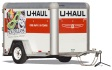
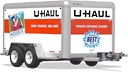
change pics

diff --git a/style/main.css b/style/main.css
@@ -314,28 +314,28 @@ hr {
     font-size: 55px; }
   .tile.tile-2 .tile-inner {
 	background: url('../tile-sets/UHAUL/2.png');
-	background-size: inherit;
+	background-size: 100% 100%;
 	background-repeat: no-repeat;
 	background-position: center;
 	background-color: white;
 	color: rgba(0,0,0,0);}
   .tile.tile-4 .tile-inner {
     background: url('../tile-sets/UHAUL/4.jpg');
-	background-size: inherit;
+	background-size: 100% 100%;
 	background-repeat: no-repeat;
 	background-position: center;
 	background-color: white;
 	color: rgba(0,0,0,0);}
   .tile.tile-8 .tile-inner {
 	background: url('../tile-sets/UHAUL/8.jpg');
-	background-size: inherit;
+	background-size: 100% 100%;
 	background-repeat: no-repeat;
 	background-position: center;
 	background-color: white;
 	color: rgba(0,0,0,0);}
   .tile.tile-16 .tile-inner {
 	background: url('../tile-sets/UHAUL/16.jpg');
-	background-size: inherit;
+	background-size: 100% 100%;
 	background-repeat: no-repeat;
 	background-position: center;
 	background-color: white;
@@ -349,41 +349,41 @@ hr {
 	color: rgba(0,0,0,0);}
   .tile.tile-64 .tile-inner {
 	background: url('../tile-sets/UHAUL/64.jpg');
-	background-size: inherit;
+	background-size: 100% 100%;
 	background-repeat: no-repeat;
 	background-position: center;
 	background-color: white;
 	color: rgba(0,0,0,0);}	
   .tile.tile-128 .tile-inner {
     background: url('../tile-sets/UHAUL/128.jpg');
-	background-size: inherit;
+	background-size: 100% 100%;
 	background-repeat: no-repeat;
 	background-position: center;
 	background-color: white;
 	color: rgba(0,0,0,0);}
   .tile.tile-256 .tile-inner {
     background: url('../tile-sets/UHAUL/256.jpg');
-	background-size: inherit;
+	background-size: 100% 100%;
 	background-repeat: no-repeat;
 	background-position: center;
 	background-color: white;
 	color: rgba(0,0,0,0);}
   .tile.tile-512 .tile-inner {
     background: url('../tile-sets/UHAUL/512.jpg');
-	background-size: inherit;
+	background-size: 100% 100%;
 	background-repeat: no-repeat;
 	background-position: center;
 	background-color: white;
 	color: rgba(0,0,0,0); }
   .tile.tile-1024 .tile-inner {
 	background: url('../tile-sets/UHAUL/1024.jpg');
-	background-size: inherit;
+	background-size: 100% 100%;
 	background-repeat: no-repeat;
 	background-position: center;
 	color: rgba(0,0,0,0);}
   .tile.tile-2048 .tile-inner {
 	background: url('../tile-sets/UHAUL/2048.jpg');
-	background-size: inherit;
+	background-size: 100% 100%;
 	background-repeat: no-repeat;
 	background-position: center;
 	background-color: white;

diff --git a/index.html b/index.html
@@ -27,7 +27,7 @@
     </div>
 
     <div class="above-game">
-      <p class="game-intro">Join the numbers and get to the <strong>2048 tile!</strong></p>
+      <p class="game-intro">Join the like tiles and get to the <strong>26ft Truck!</strong></p>
       <a class="restart-button">New Game</a>
     </div>
 
